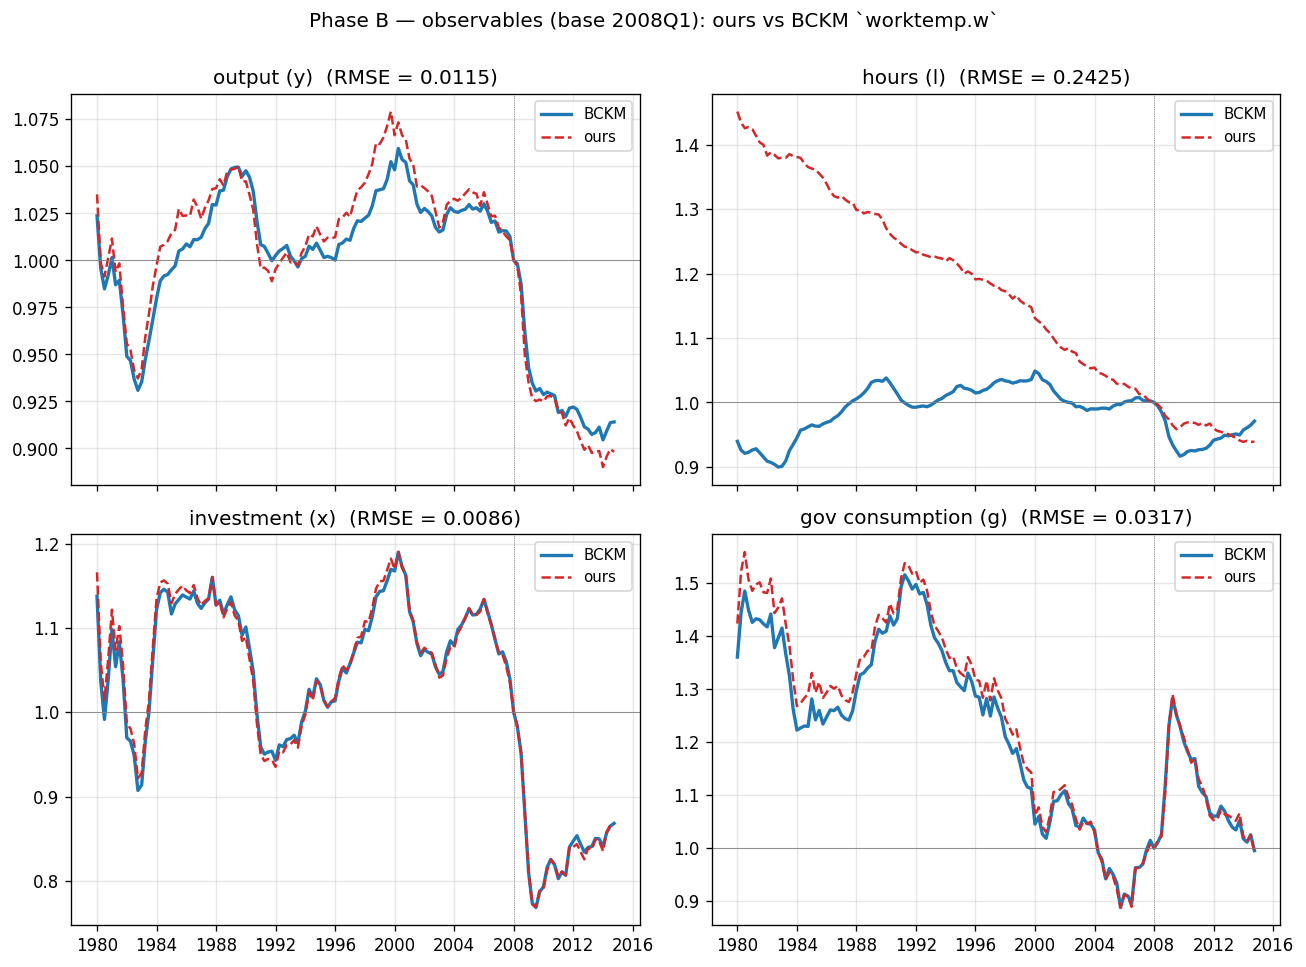
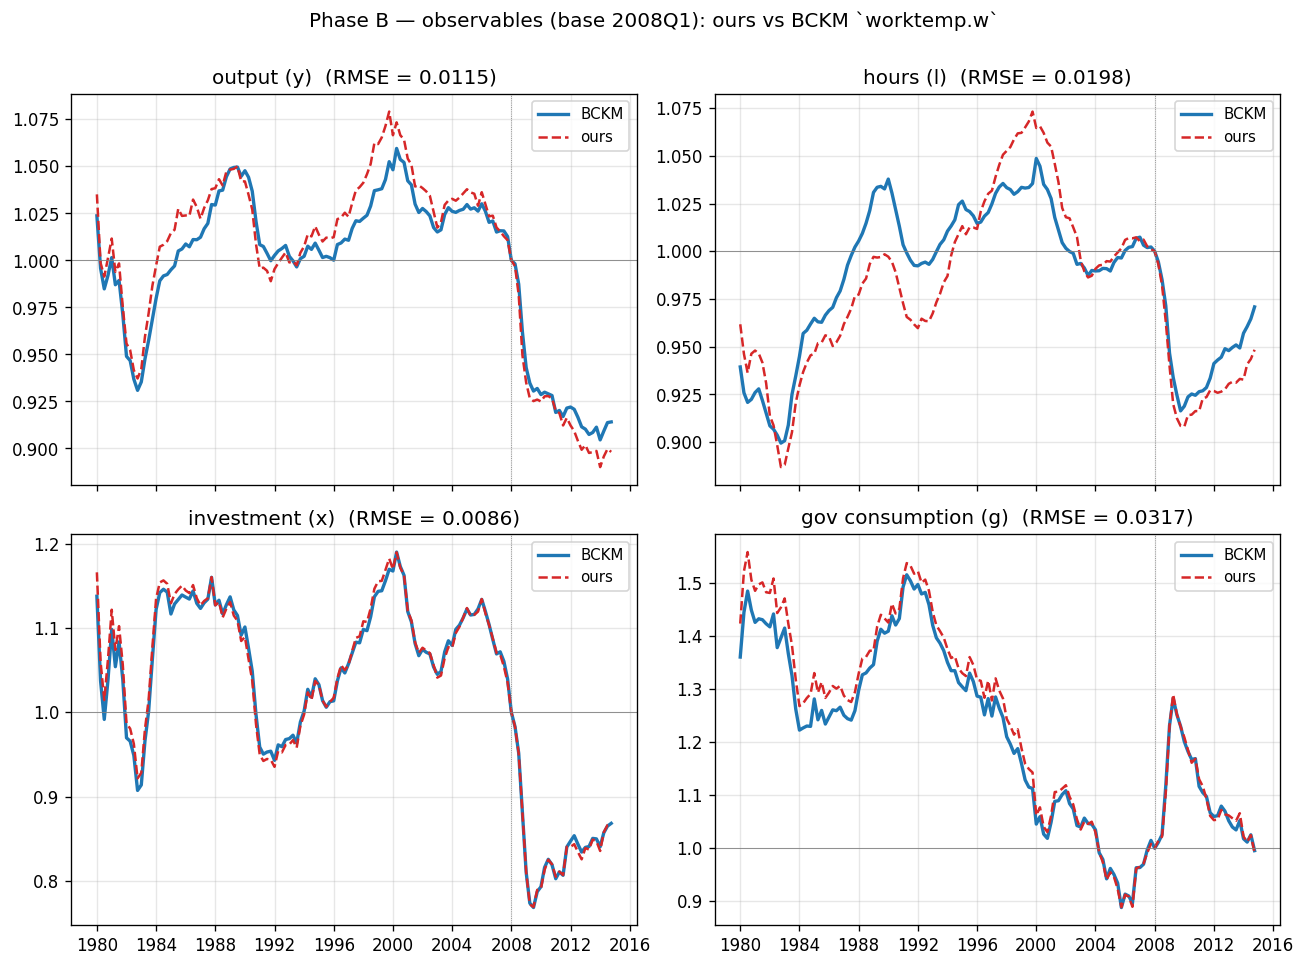
Step 9 Phase B fix: labor in levels via PAYEMS x AWHNONAG (hours RMSE 0.24 -> 0.02)
bca_core/data/fred.py: add AWHNONAG (avg weekly hours, prod/nonsup
employees, 1964+) to FRED_SERIES. Update header comment to clarify the
fallback semantics.

bca_core/data/adjustments.py: invert the order in compute_labor_input.
Prefer employment * avg_weekly_hours (PAYEMS * AWHNONAG, total hours in
levels) so dividing by working_age_pop is dimensionally consistent and
mirrors BCKM usdata.m semantics. Fall back to hours_index (PRS85006023)
only when AWHNONAG is unavailable, with a docstring caveat about the
spurious trend it introduces.

Phase B observables RMSE vs BCKM (1980Q1..2014Q4):
                  before   after
  output (y)      0.0115   0.0115  (unchanged)
  hours (l)       0.2425   0.0198  (12x)
  investment (x)  0.0086   0.0086  (unchanged)
  gov cons (g)    0.0317   0.0317  (unchanged)

Hours decade-by-decade (post-fix):
  1980-1989: RMSE=0.0217
  1990-1999: RMSE=0.0249
  2000-2007: RMSE=0.0133
  2008-2014: RMSE=0.0141
  GR window: RMSE=0.0081

Refetched data/us_1980_2014_calgz.parquet with the new construction.
Updated figure_observables_compare.png. 65/65 tests passing.

diff --git a/bca_core/data/adjustments.py b/bca_core/data/adjustments.py
@@ -147,21 +147,25 @@ def compute_labor_input(
     """
     Compute labor input l_t in [0, 1].
 
-    Prefers `hours_index` (FRED PRS85006023, nonfarm business hours of all
-    persons, 1947+) so the labor series spans BCKM's full 1948Q1+ MLE
-    sample. Falls back to `employment * avg_weekly_hours` if hours_index
-    is unavailable (the latter only goes back to 1964 because AWHNONAG
-    starts then).
+    Prefers `employment * avg_weekly_hours` (PAYEMS × AWHNONAG — total
+    hours in levels) so that division by a population level is dimensionally
+    consistent. Mirrors BCKM `usdata.m` semantics. AWHNONAG starts 1964Q1,
+    so for sub-samples that include earlier quarters this falls back to
+    `hours_index` (PRS85006023) — but the resulting series carries a
+    spurious negative trend (Phase B observed −30% / 35yrs for 1980+
+    sample) because dividing an INDEX by a population LEVEL is not
+    dimensionally meaningful. Avoid the fallback whenever AWHNONAG covers
+    the sample.
 
     Normalizes so the sample mean equals target_mean — post-hoc rescaling
     in run_var_counterfactuals.py then re-normalizes to the model l_ss.
     """
-    if "hours_index" in df.columns:
+    if "employment" in df.columns and "avg_weekly_hours" in df.columns:
+        hours = (df["employment"] * df["avg_weekly_hours"]).copy()
+    elif "hours_index" in df.columns:
         hours = df["hours_index"].copy()
-    elif "employment" in df.columns and "avg_weekly_hours" in df.columns:
-        hours = df["employment"] * df["avg_weekly_hours"]
     else:
-        raise ValueError("Need hours_index or (employment, avg_weekly_hours) columns.")
+        raise ValueError("Need (employment, avg_weekly_hours) or hours_index columns.")
 
     hours = hours.dropna()
 

diff --git a/bca_core/data/fred.py b/bca_core/data/fred.py
@@ -11,14 +11,12 @@ import pandas as pd
 
 # FRED series IDs for US BCA.
 #
-# All series chosen to support BCKM's 1948Q1+ MLE sample. Earlier choices
-# (PCE / LFWA64TTUSQ647S / AWHNONAG) only went back to 1959 / 1977 / 1964
-# respectively and limited the sample to 1980+. Replacements:
-#   - PCE total ........ computed from PCND + PCESV + PCDG (all 1947+)
-#   - working-age pop .. CNP16OV (civilian non-institutional pop 16+,
-#                        monthly, 1948+) instead of OECD 15-64 (1977+)
-#   - labor input ...... PRS85006023 hours index directly (1947+) instead
-#                        of PAYEMS × AWHNONAG (AWHNONAG is 1964+)
+# Labor input is constructed in levels as PAYEMS × AWHNONAG (employment ×
+# avg weekly hours), divided by working_age_pop, mirroring BCKM `usdata.m`
+# semantics. AWHNONAG starts 1964Q1, which limits this construction to
+# samples ≥1964Q1; for earlier sub-samples `hours_index` (PRS85006023, an
+# index) is used as a fallback even though dividing it by a population
+# level introduces a unit mismatch (Phase B caught this; see compute_labor_input).
 FRED_SERIES = {
     # National accounts (quarterly, SAAR, billions of nominal $)
     "gdp": "GDP",
@@ -35,8 +33,9 @@ FRED_SERIES = {
     "sales_tax_state": "ASLSTAX",       # state government sales tax revenue (annual)
     # Population & labor
     "working_age_pop": "CNP16OV",       # civilian non-institutional pop 16+ (1948+)
-    "hours_index": "PRS85006023",       # nonfarm business: hours of all persons (1947+)
-    "employment": "PAYEMS",             # total nonfarm payrolls (thousands, monthly)
+    "hours_index": "PRS85006023",       # nonfarm business hours INDEX (1947+, fallback only)
+    "employment": "PAYEMS",             # total nonfarm payrolls (thousands, monthly, 1939+)
+    "avg_weekly_hours": "AWHNONAG",     # avg weekly hours, prod & nonsup employees (1964+)
 }
 
 